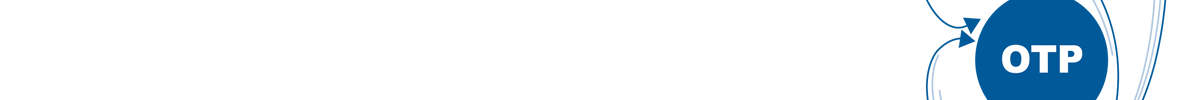
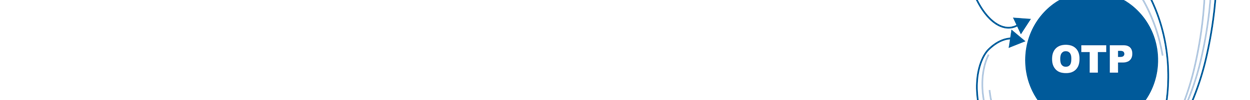
OTP-1906: navigation: change snv to snv processing and snv results

Changed region(s): [[0.7708, 0.0, 0.9867, 1.0]]

diff --git a/grails-app/assets/stylesheets/otp.less b/grails-app/assets/stylesheets/otp.less
@@ -3,6 +3,8 @@
 ******************************************/
 @babyblue: #A9BCF5;
 @darkblue: #81BEF7;
+@width: 1250px; //if you change this you also have to change the width of "header.png" and "header_operator.png"
+@widthBody: calc(@width - 20);
 
 .box-shadowed (@x, @y, @radius, @color) {
        -moz-box-shadow: @arguments;
@@ -679,7 +681,7 @@ body {
 }
 .body_position {
     margin: 25px auto 0;
-    width: 1200px;
+    width: @width;
 }
 .header {
     width: 100%;
@@ -704,7 +706,7 @@ body {
     width: 100%;
     height: 141px;
     z-index: -1;
-    margin-left: 1200px;
+    margin-left: @width;
     margin-top: -100px;
 }
 .headerGraphicImg {
@@ -721,7 +723,7 @@ body {
 }
 .footer {
     float: left;
-    width: 1200px;
+    width: @width;
     height: 33px;
     margin-top: 0.5em;
     background-color: #222;
@@ -794,12 +796,15 @@ body {
 }
 .allGranted {
     border-top: 3px solid #9A1200;
+    z-index:5;
 }
 .allGranted_general {
     border-top: 5px solid #9A1200;
+    z-index:5;
 }
 .allGranted > a {
     padding-top: 10px;
+    z-index:5;
 }
 .switchUserRight {
     border-top: 3px solid #9A1200;
@@ -807,52 +812,36 @@ body {
 .switchUserRight > a {
     padding-top: 10px;
 }
-.admin_nav {
+.navigation {
     margin-left: 1px;
 }
-.admin_nav ul li {
+.navigation ul li {
     display: block;
     position: relative;
     float: left;
 }
-.admin_nav li ul {
+.navigation li ul {
     display: none;
     margin-top: 36px;
 }
-.admin_nav ul li a {
+.navigation ul li a {
     display: block;
     position: relative;
     float: left;
-    width: 115px;
     background-color: #222;
     z-index: 10;
 }
-.admin_nav li:hover ul {
-    display: block;
-    position: absolute;
+#admin ul li a {
+    width: 115px;
 }
-.overview_nav {
-    margin-left: 1px;
-}
-.overview_nav ul li {
-    display: block;
-    position: relative;
-    float: left;
-}
-.overview_nav li ul {
-    display: none;
-    margin-top: 36px;
-}
-.overview_nav ul li a {
-    display: block;
-    position: relative;
-    float: left;
+#overview ul li a {
     max-width: 8.5em;
     min-width:5.2em;
-    background-color: #222;
-    z-index: 10;
 }
-.overview_nav li:hover ul {
+#snv ul li a {
+    width: 70px;
+}
+.navigation li:hover ul {
     display: block;
     position: absolute;
 }
@@ -862,7 +851,7 @@ body {
 }
 .body {
     float: left;
-    width: 1230px;
+    width: @widthBody;
     margin-top: 0.5em;
     box-shadow: 0 0 .5em black;
     background-color: #FFF;
@@ -874,7 +863,7 @@ body {
 }
 .body_grow {
     float: left;
-    width: 1180px;
+    width: @widthBody;
     margin-top: 10px;
     box-shadow: 0 0 .5em black;
     background-color: #FFF;
@@ -1098,7 +1087,7 @@ body {
 }
 .overviewContainer {
     float: left;
-    width: 1180px;
+    width: calc(@width - 20);
     overflow-x: hidden;
 }
 .statistics {
